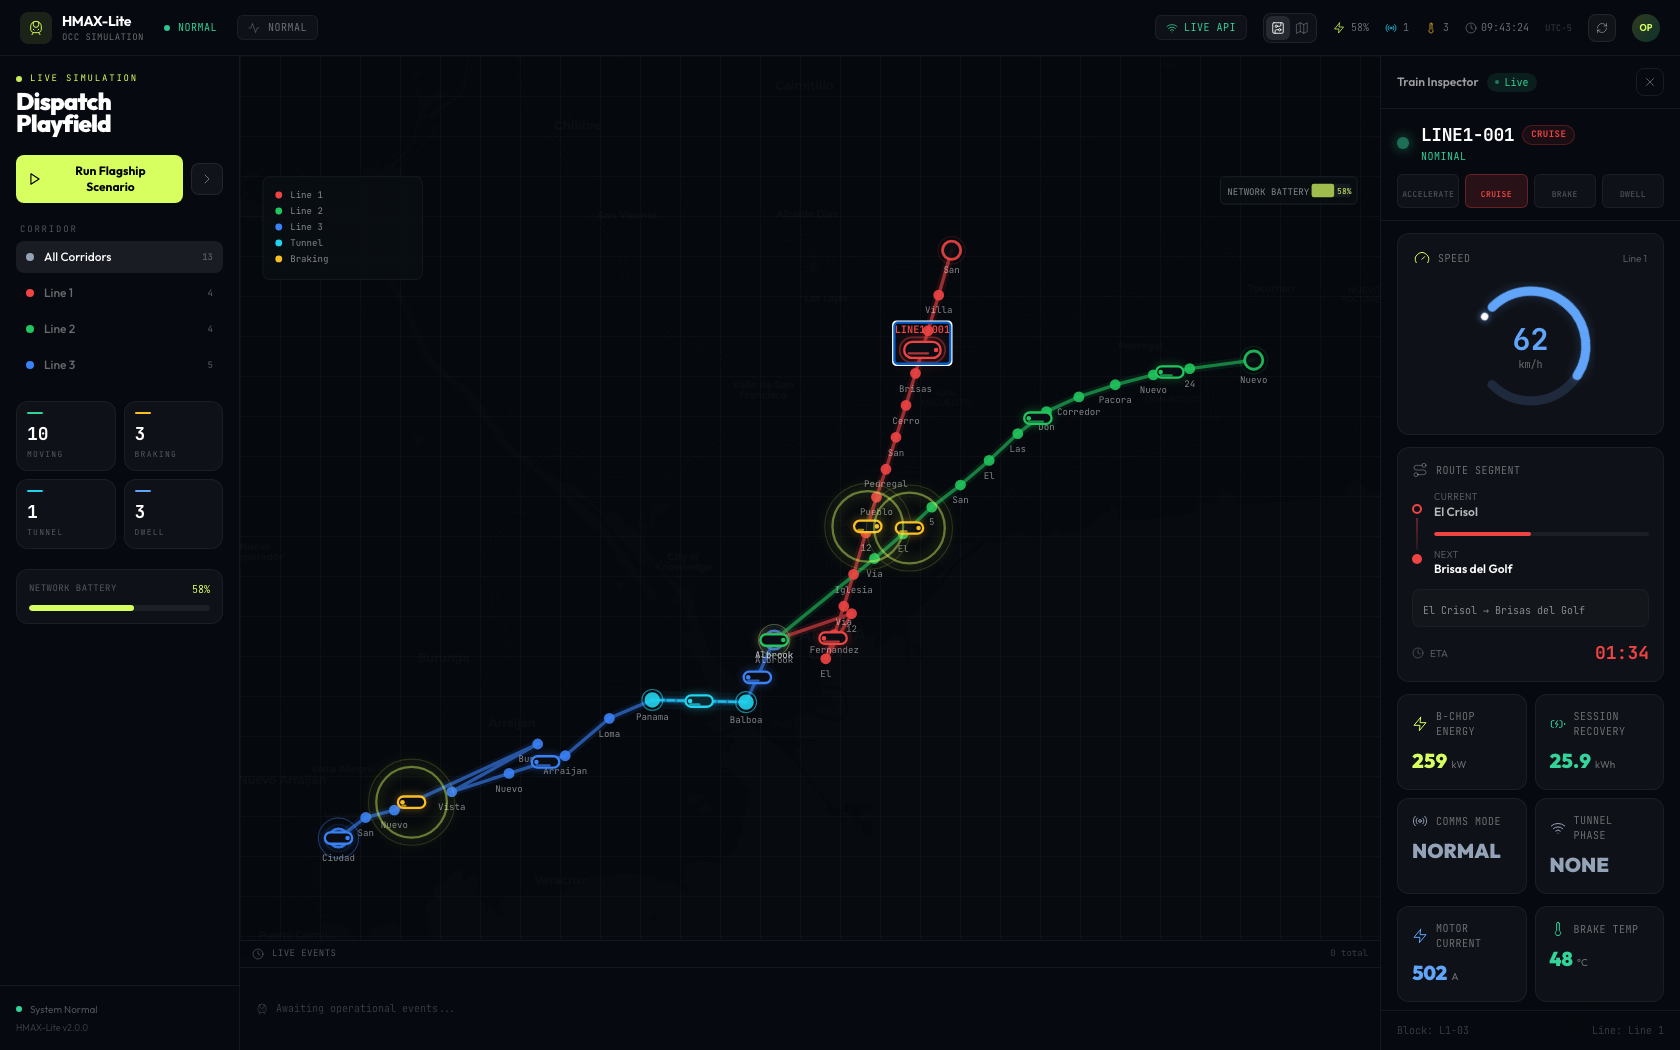
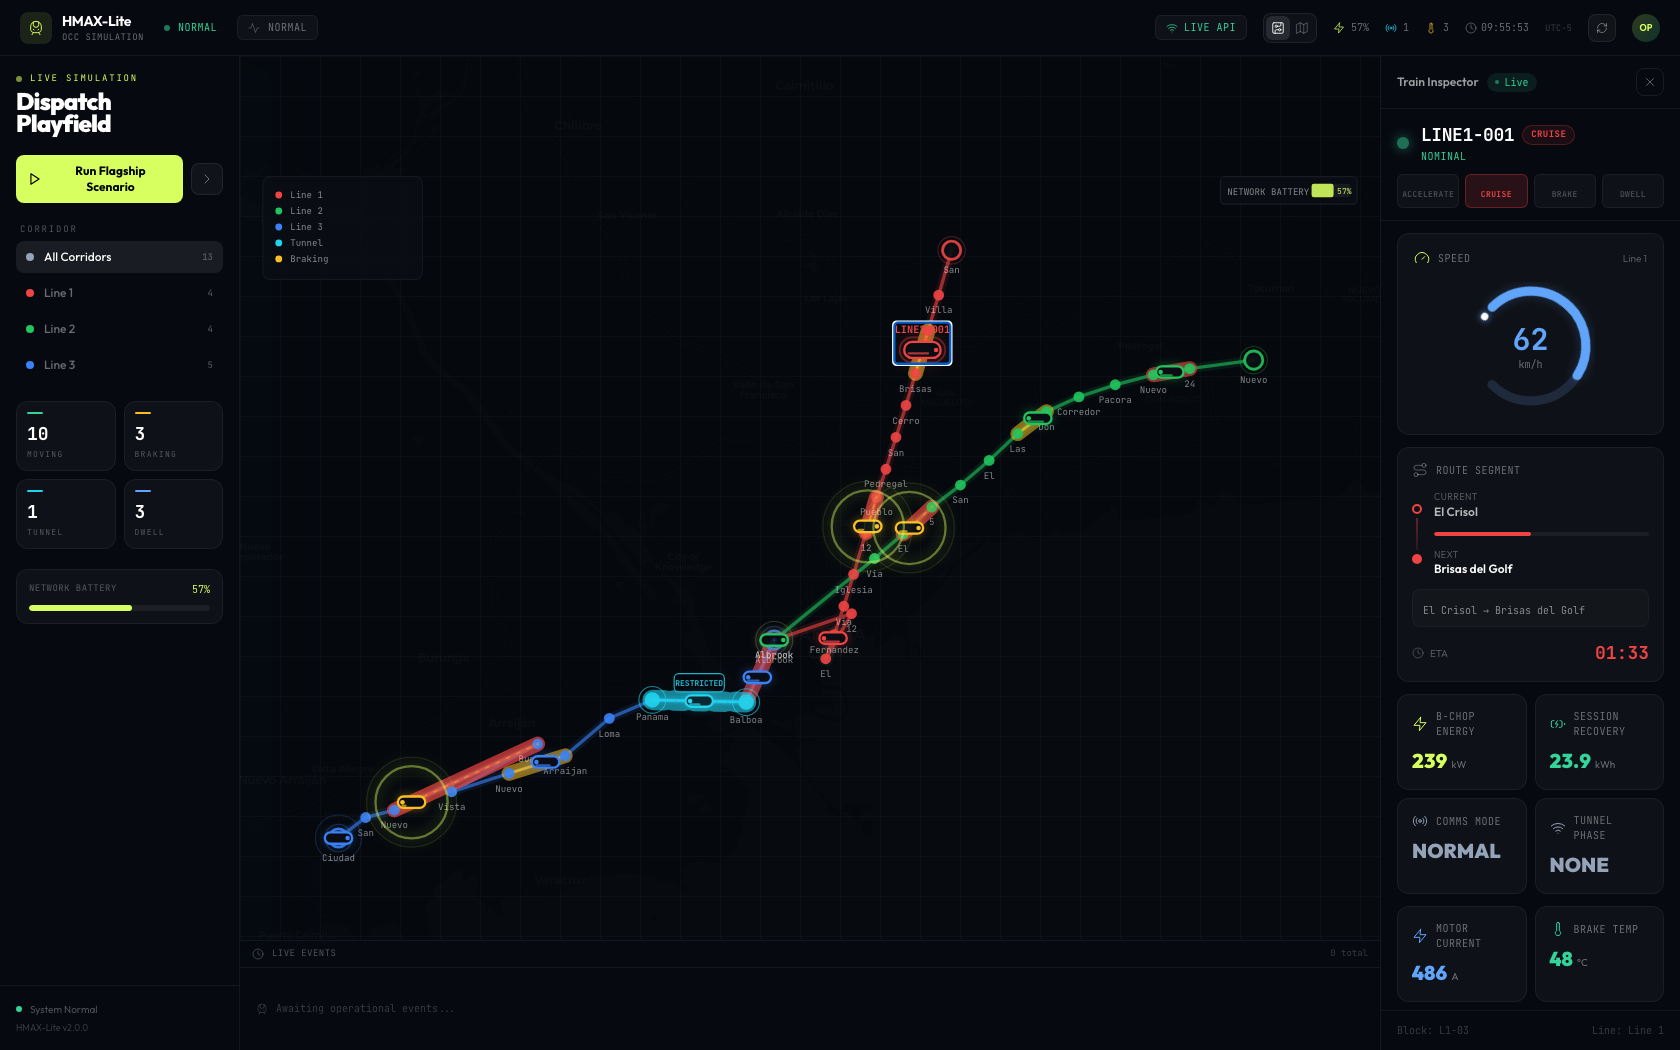
feat: elevate rail simulation board fidelity

diff --git a/hmax-lite/frontend/src/components/simulation/RailSimulationBoard.tsx b/hmax-lite/frontend/src/components/simulation/RailSimulationBoard.tsx
@@ -8,10 +8,15 @@
  */
 
 import { useEffect, useMemo, useRef } from 'react';
+import gsap from 'gsap';
+import { useGSAP } from '@gsap/react';
 import { MapContainer, TileLayer, useMap } from 'react-leaflet';
 import type { TrainStatus, Station, MetroLine } from '../../types/train';
 import { LINE_CONFIG } from '../../types/train';
 import type { SignalBlock } from '../../simulation/deriveSignalBlocks';
+import { deriveSignalBlocks } from '../../simulation/deriveSignalBlocks';
+
+gsap.registerPlugin(useGSAP);
 
 interface RailSimulationBoardProps {
   trains: TrainStatus[];
@@ -103,15 +108,27 @@ function StationNode({ station, isTerminal, isTunnel, isSelected }: {
   );
 }
 
-function TrainCapsule({ train, isSelected, onClick }: {
+function getBlockColor(status: SignalBlock['status']): string {
+  if (status === 'occupied') return '#ef4444';
+  if (status === 'approach') return '#fbbf24';
+  if (status === 'restricted') return '#22d3ee';
+  return '#34d399';
+}
+
+function TrainCapsule({ train, isSelected, onClick, stationMap }: {
   train: TrainStatus;
   isSelected: boolean;
   onClick: () => void;
+  stationMap: Map<string, Station>;
 }) {
   const [x, y] = geoToSvg(train.position.lat, train.position.lng);
   const color = train.is_in_tunnel ? '#22d3ee' : train.telemetry.b_chop_status ? '#fbbf24' : LINE_CONFIG[train.line].color;
   const capsuleWidth = isSelected ? 32 : 24;
   const capsuleHeight = isSelected ? 14 : 10;
+  const currentStation = stationMap.get(train.position.current_station_id);
+  const nextStation = stationMap.get(train.position.next_station_id);
+  const canDrawTrail = currentStation && nextStation && !train.at_station;
+  const [segmentStartX, segmentStartY] = currentStation ? geoToSvg(currentStation.lat, currentStation.lng) : [x, y];
 
   const handleKeyDown = (e: React.KeyboardEvent) => {
     if (e.key === 'Enter' || e.key === ' ') {
@@ -131,9 +148,37 @@ function TrainCapsule({ train, isSelected, onClick }: {
       onClick={onClick}
       onKeyDown={handleKeyDown}
     >
-      {/* Selection ring */}
+      {canDrawTrail && (
+        <g className={isSelected ? 'selected-train-shell' : undefined}>
+          <line
+            x1={segmentStartX}
+            y1={segmentStartY}
+            x2={x}
+            y2={y}
+            stroke={color}
+            strokeWidth={isSelected ? 8 : 5}
+            strokeLinecap="round"
+            opacity={isSelected ? 0.22 : 0.11}
+          />
+          <line
+            x1={segmentStartX}
+            y1={segmentStartY}
+            x2={x}
+            y2={y}
+            stroke={color}
+            strokeWidth={isSelected ? 2.5 : 1.5}
+            strokeLinecap="round"
+            opacity={isSelected ? 0.82 : 0.42}
+            strokeDasharray="3 7"
+          >
+            <animate attributeName="stroke-dashoffset" values="18;0" dur="1s" repeatCount="indefinite" />
+          </line>
+        </g>
+      )}
+
       {isSelected && (
         <rect
+          className="selected-train-shell"
           x={x - capsuleWidth / 2 - 4}
           y={y - capsuleHeight / 2 - 4}
           width={capsuleWidth + 8}
@@ -147,7 +192,6 @@ function TrainCapsule({ train, isSelected, onClick }: {
           <animate attributeName="opacity" values="0.6;0.2;0.6" dur="1s" repeatCount="indefinite" />
         </rect>
       )}
-      {/* Train body */}
       <rect
         x={x - capsuleWidth / 2}
         y={y - capsuleHeight / 2}
@@ -159,14 +203,12 @@ function TrainCapsule({ train, isSelected, onClick }: {
         strokeWidth="2"
         style={{ filter: `drop-shadow(0 0 ${isSelected ? 8 : 4}px ${color}60)` }}
       />
-      {/* Direction indicator */}
       <circle
         cx={x + (train.direction === 'EASTBOUND' || train.direction === 'SOUTHBOUND' ? capsuleWidth / 2 - 4 : -capsuleWidth / 2 + 4)}
         cy={y}
         r={2}
         fill={color}
       />
-      {/* Speed bar inside capsule */}
       <rect
         x={x - capsuleWidth / 2 + 3}
         y={y + 2}
@@ -176,14 +218,12 @@ function TrainCapsule({ train, isSelected, onClick }: {
         fill={color}
         opacity="0.7"
       />
-      {/* B-CHOP energy pulse */}
       {train.telemetry.b_chop_status && (
         <circle cx={x} cy={y} r={capsuleWidth} fill="none" stroke="#d7ff5f" strokeWidth="1" opacity="0.5">
           <animate attributeName="r" values={`${capsuleWidth};${capsuleWidth + 20};${capsuleWidth}`} dur="0.8s" repeatCount="indefinite" />
           <animate attributeName="opacity" values="0.5;0;0.5" dur="0.8s" repeatCount="indefinite" />
         </circle>
       )}
-      {/* Tunnel dimming */}
       {train.is_in_tunnel && (
         <rect
           x={x - capsuleWidth / 2}
@@ -195,7 +235,6 @@ function TrainCapsule({ train, isSelected, onClick }: {
           style={{ mixBlendMode: 'screen' }}
         />
       )}
-      {/* Train ID label on hover/select */}
       {isSelected && (
         <text
           x={x}
@@ -304,27 +343,90 @@ function RailCorridor({ line, coordinates, isFiltered }: {
   );
 }
 
-function SignalBlockOverlay({ blocks, selectedLine }: { blocks: SignalBlock[]; selectedLine: MetroLine | 'all' }) {
+function SignalBlockOverlay({
+  blocks,
+  selectedLine,
+  stationMap,
+}: {
+  blocks: SignalBlock[];
+  selectedLine: MetroLine | 'all';
+  stationMap: Map<string, Station>;
+}) {
   return (
-    <g>
+    <g className="signal-block-layer">
       {blocks
         .filter(b => selectedLine === 'all' || b.line === selectedLine)
         .map(block => {
-          // Find station coordinates
-          // This is simplified - in full implementation we'd look up station coords
-          // For now, render as opacity overlay on line paths
-          const statusColor =
-            block.status === 'occupied' ? '#ef4444' :
-            block.status === 'approach' ? '#fbbf24' :
-            block.status === 'restricted' ? '#22d3ee' :
-            '#34d399';
+          const from = stationMap.get(block.fromStationId);
+          const to = stationMap.get(block.toStationId);
+          if (!from || !to) return null;
+
+          const [x1, y1] = geoToSvg(from.lat, from.lng);
+          const [x2, y2] = geoToSvg(to.lat, to.lng);
+          const mx = x1 + (x2 - x1) * 0.5;
+          const my = y1 + (y2 - y1) * 0.5;
+          const statusColor = getBlockColor(block.status);
+          const activeOpacity = block.status === 'clear' ? 0.08 : 0.42 + block.occupancy * 0.35;
+          const railWidth = block.isTunnel ? 18 : 13;
+          const showStatusLabel =
+            block.status !== 'clear' &&
+            (selectedLine !== 'all' || block.status === 'restricted' || block.isTunnel);
 
           return (
-            <g key={block.id} opacity={block.occupancy > 0 ? 0.6 : 0}>
-              {/* Simplified block indicator - a small dot along the line */}
-              <circle cx={0} cy={0} r={0} fill={statusColor}>
-                <animate attributeName="opacity" values="0.3;0.7;0.3" dur="1.5s" repeatCount="indefinite" />
-              </circle>
+            <g key={block.id} opacity={selectedLine === 'all' ? 0.9 : 1}>
+              <line
+                x1={x1}
+                y1={y1}
+                x2={x2}
+                y2={y2}
+                stroke={statusColor}
+                strokeWidth={railWidth}
+                strokeLinecap="round"
+                opacity={activeOpacity}
+                strokeDasharray={block.isTunnel ? '10 8' : undefined}
+              />
+              {block.status !== 'clear' && (
+                <>
+                  <line
+                    x1={x1}
+                    y1={y1}
+                    x2={x2}
+                    y2={y2}
+                    stroke={statusColor}
+                    strokeWidth="2"
+                    strokeLinecap="round"
+                    opacity="0.9"
+                  >
+                    <animate attributeName="stroke-dashoffset" values="20;0" dur="1.2s" repeatCount="indefinite" />
+                  </line>
+                  {showStatusLabel && (
+                    <g transform={`translate(${mx}, ${my - 16})`}>
+                      <rect
+                        x="-22"
+                        y="-8"
+                        width="44"
+                        height="16"
+                        rx="4"
+                        fill="rgba(6,9,15,0.86)"
+                        stroke={statusColor}
+                        strokeWidth="1"
+                        opacity="0.94"
+                      />
+                      <text
+                        x="0"
+                        y="3"
+                        textAnchor="middle"
+                        fill={statusColor}
+                        fontSize="7"
+                        fontFamily="JetBrains Mono, monospace"
+                        fontWeight="700"
+                      >
+                        {block.status.toUpperCase()}
+                      </text>
+                    </g>
+                  )}
+                </>
+              )}
             </g>
           );
         })}
@@ -374,6 +476,7 @@ export function RailSimulationBoard({
   showEnergyPulses,
 }: RailSimulationBoardProps) {
   const svgRef = useRef<SVGSVGElement>(null);
+  const rootRef = useRef<HTMLDivElement>(null);
 
   const stationsByLine = useMemo(() => {
     const grouped: Record<MetroLine, Station[]> = { line1: [], line2: [], line3: [] };
@@ -387,15 +490,44 @@ export function RailSimulationBoard({
     return coords;
   }, [stations]);
 
+  const stationMap = useMemo(() => {
+    const map = new Map<string, Station>();
+    stations.forEach(station => map.set(station.id, station));
+    return map;
+  }, [stations]);
+
   const filteredTrains = useMemo(() =>
     selectedLine === 'all' ? trains : trains.filter(t => t.line === selectedLine),
     [trains, selectedLine]
   );
 
+  const boardSignalBlocks = useMemo(
+    () => signalBlocks.length > 0 ? signalBlocks : deriveSignalBlocks(trains),
+    [signalBlocks, trains],
+  );
+
   const linesToShow: MetroLine[] = selectedLine === 'all' ? ['line1', 'line2', 'line3'] : [selectedLine];
 
+  useGSAP(() => {
+    if (window.matchMedia('(prefers-reduced-motion: reduce)').matches) return;
+
+    gsap.fromTo(
+      '.dispatch-scan',
+      { xPercent: -120 },
+      { xPercent: 120, duration: 4.8, repeat: -1, ease: 'none' },
+    );
+
+    gsap.to('.selected-train-shell', {
+      opacity: 0.72,
+      duration: 0.9,
+      repeat: -1,
+      yoyo: true,
+      ease: 'sine.inOut',
+    });
+  }, { scope: rootRef, dependencies: [selectedTrainId, selectedLine] });
+
   return (
-    <div className="relative h-full w-full overflow-hidden bg-[#06090f]" style={{ borderRadius: 'inherit' }}>
+    <div ref={rootRef} className="relative h-full w-full overflow-hidden bg-[#06090f]" style={{ borderRadius: 'inherit' }}>
       {/* Geographic context under the simulation layer. The SVG remains the operating surface. */}
       <div
         className="pointer-events-none absolute inset-0 opacity-[0.34]"
@@ -427,6 +559,14 @@ export function RailSimulationBoard({
         backgroundImage: 'linear-gradient(rgba(255,255,255,0.3) 1px, transparent 1px), linear-gradient(90deg, rgba(255,255,255,0.3) 1px, transparent 1px)',
         backgroundSize: '40px 40px',
       }} />
+      <div
+        className="dispatch-scan pointer-events-none absolute inset-y-0 left-0 w-1/3 opacity-30"
+        style={{
+          background: 'linear-gradient(90deg, transparent 0%, rgba(34,211,238,0.08) 48%, rgba(215,255,95,0.13) 50%, rgba(34,211,238,0.08) 52%, transparent 100%)',
+          filter: 'blur(10px)',
+        }}
+        aria-hidden="true"
+      />
 
       <svg
         ref={svgRef}
@@ -462,7 +602,7 @@ export function RailSimulationBoard({
         ))}
 
         {/* Signal blocks overlay */}
-        <SignalBlockOverlay blocks={signalBlocks} selectedLine={selectedLine} />
+        <SignalBlockOverlay blocks={boardSignalBlocks} selectedLine={selectedLine} stationMap={stationMap} />
 
         {/* Stations */}
         {linesToShow.map(line =>
@@ -484,6 +624,7 @@ export function RailSimulationBoard({
             train={train}
             isSelected={train.id === selectedTrainId}
             onClick={() => onSelectTrain(train.id)}
+            stationMap={stationMap}
           />
         ))}
 
@@ -543,7 +684,7 @@ export function RailSimulationBoard({
         </div>
         <div className="rounded-md border border-white/[0.06] bg-[#0a0e14]/80 px-3 py-1.5 backdrop-blur-md">
           <span className="font-mono text-[9px] text-white/40">BLOCKS</span>
-          <span className="ml-2 font-mono text-xs font-bold text-white">{signalBlocks.filter(b => selectedLine === 'all' || b.line === selectedLine).length}</span>
+          <span className="ml-2 font-mono text-xs font-bold text-white">{boardSignalBlocks.filter(b => selectedLine === 'all' || b.line === selectedLine).length}</span>
         </div>
       </div>
     </div>

diff --git a/hmax-lite/frontend/src/simulation/deriveSignalBlocks.ts b/hmax-lite/frontend/src/simulation/deriveSignalBlocks.ts
@@ -11,6 +11,8 @@ export interface SignalBlock {
   status: 'clear' | 'occupied' | 'approach' | 'restricted';
 }
 
+const SEGMENT_KEY_SEPARATOR = '::';
+
 export function deriveSignalBlocks(trains: TrainStatus[]): SignalBlock[] {
   const blocks: SignalBlock[] = [];
   const trainsByLine = new Map<MetroLine, TrainStatus[]>();
@@ -24,13 +26,13 @@ export function deriveSignalBlocks(trains: TrainStatus[]): SignalBlock[] {
     // Group trains by their current segment
     const segmentMap = new Map<string, TrainStatus[]>();
     for (const t of lineTrains) {
-      const segKey = `${t.position.current_station_id}-${t.position.next_station_id}`;
+      const segKey = `${t.position.current_station_id}${SEGMENT_KEY_SEPARATOR}${t.position.next_station_id}`;
       if (!segmentMap.has(segKey)) segmentMap.set(segKey, []);
       segmentMap.get(segKey)!.push(t);
     }
 
     for (const [segKey, segTrains] of segmentMap) {
-      const [fromId, toId] = segKey.split('-');
+      const [fromId, toId] = segKey.split(SEGMENT_KEY_SEPARATOR);
       const occupancy = Math.min(1, segTrains.reduce((sum, t) => sum + t.block_occupancy, 0));
       const isTunnel = line === 'line3' && ((fromId === 'ST-02' && toId === 'ST-03') || (fromId === 'ST-03' && toId === 'ST-02'));
 
